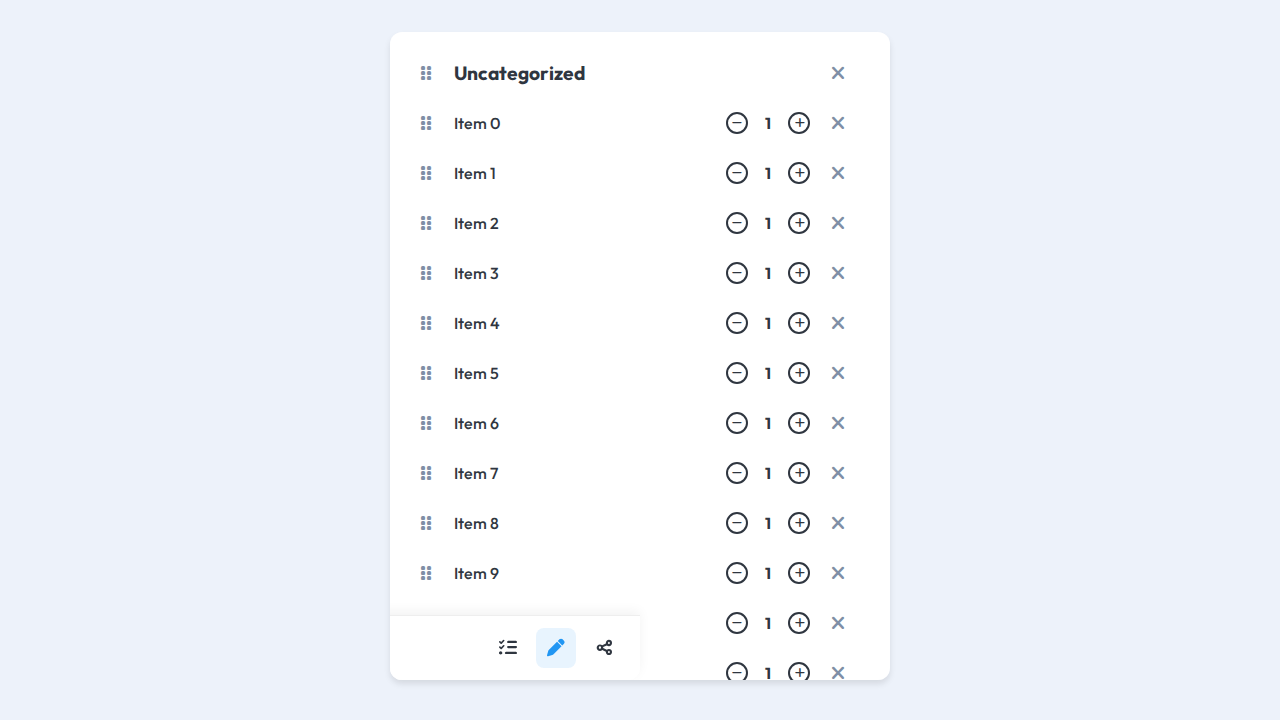
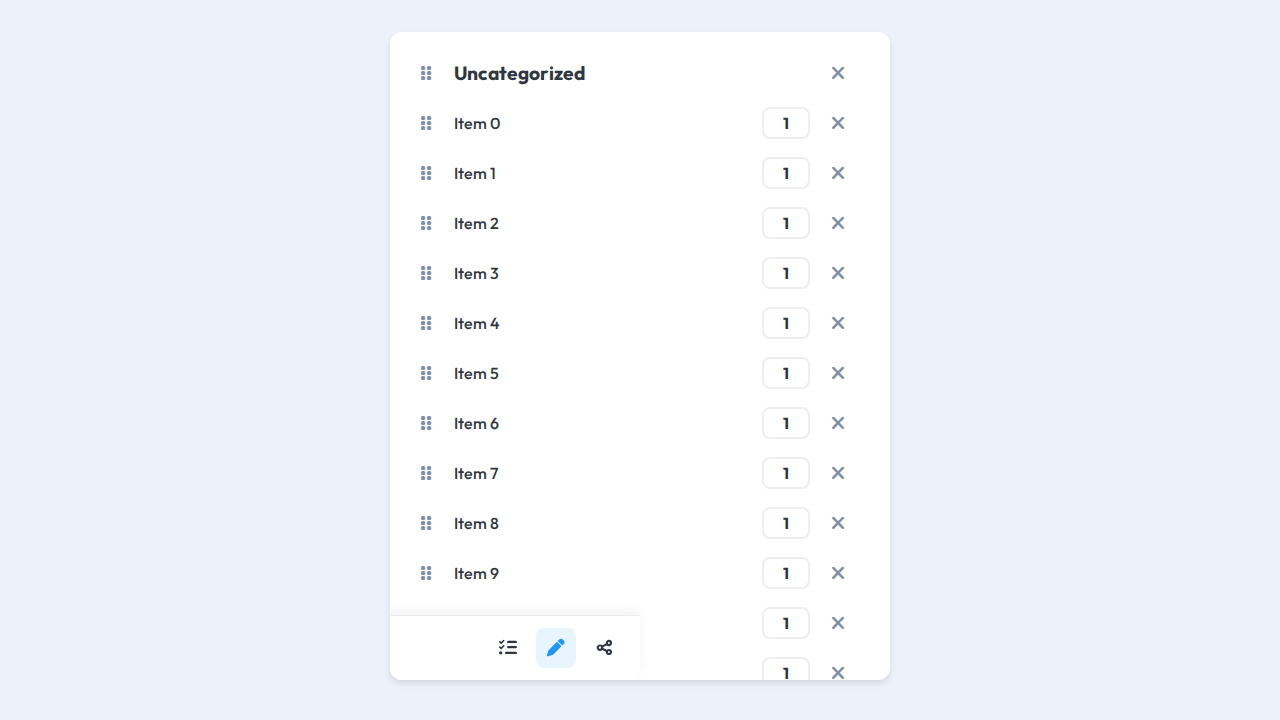
Replace quantity steppers with numeric input fields (#171)
- Replaced plus/minus stepper buttons with `<input type="number">` for direct entry.
- Implemented `input.select()` on focus to highlight previous values.
- Added keyboard navigation: pressing 'Enter' focuses the next visible quantity input.
- Refactored state management to `setHave` and `setWant` for absolute value updates.
- Updated `public/style.css` with dedicated `.qty-input` styling and layout adjustments.
- Updated Playwright test suite to align with the new interaction model.

diff --git a/public/app.js b/public/app.js
@@ -1628,21 +1628,21 @@ document.addEventListener('DOMContentLoaded', async () => {
         renderList();
     }
 
-    function adjustHave(id, delta) {
+    function setHave(id, value) {
         const currentList = getCurrentList();
         const item = currentList.items.find(i => i.id === id);
         if (item) {
-            item.haveCount = Math.max(0, item.haveCount + delta);
+            item.haveCount = Math.max(0, parseInt(value) || 0);
             saveAppState();
-            // Optimization: Update only the relevant stepper if possible
+            // Optimization: Update only the relevant input if possible
             const stepper = document.querySelector(`.grocery-item[data-id="${id}"] .have-stepper`);
             if (stepper) {
-                const valSpan = stepper.querySelector('.qty-val');
-                if (valSpan) {
-                    valSpan.textContent = item.haveCount;
-                    valSpan.classList.remove('pop-animate');
-                    void valSpan.offsetWidth;
-                    valSpan.classList.add('pop-animate');
+                const input = stepper.querySelector('.qty-input');
+                if (input) {
+                    input.value = item.haveCount;
+                    input.classList.remove('pop-animate');
+                    void input.offsetWidth;
+                    input.classList.add('pop-animate');
                     return;
                 }
             }
@@ -1650,11 +1650,11 @@ document.addEventListener('DOMContentLoaded', async () => {
         }
     }
 
-    function adjustWant(id, delta) {
+    function setWant(id, value) {
         const currentList = getCurrentList();
         const item = currentList.items.find(i => i.id === id);
         if (item) {
-            const newWant = Math.max(0, item.wantCount + delta);
+            const newWant = Math.max(0, parseInt(value) || 0);
             const sameNameItems = currentList.items.filter(i => i.text.trim() === item.text.trim());
             sameNameItems.forEach(i => i.wantCount = newWant);
             saveAppState();
@@ -1662,12 +1662,12 @@ document.addEventListener('DOMContentLoaded', async () => {
             sameNameItems.forEach(i => {
                 const stepper = document.querySelector(`.grocery-item[data-id="${i.id}"] .want-stepper`);
                 if (stepper) {
-                    const valSpan = stepper.querySelector('.qty-val');
-                    if (valSpan) {
-                        valSpan.textContent = i.wantCount;
-                        valSpan.classList.remove('pop-animate');
-                        void valSpan.offsetWidth;
-                        valSpan.classList.add('pop-animate');
+                    const input = stepper.querySelector('.qty-input');
+                    if (input) {
+                        input.value = i.wantCount;
+                        input.classList.remove('pop-animate');
+                        void input.offsetWidth;
+                        input.classList.add('pop-animate');
                     }
                 }
                 const circle = document.querySelector(`.grocery-item[data-id="${i.id}"] .shop-qty-circle`);
@@ -2119,36 +2119,44 @@ document.addEventListener('DOMContentLoaded', async () => {
         const group = document.createElement('div');
         group.className = `qty-stepper ${type}-stepper`;
 
-        const btnMinus = document.createElement('button');
-        btnMinus.className = 'qty-stepper-btn minus';
-        btnMinus.innerHTML = '<i class="fas fa-minus"></i>';
+        const input = document.createElement('input');
+        input.type = 'number';
+        input.inputMode = 'numeric';
+        input.min = '0';
+        input.step = '1';
+        input.className = 'qty-input';
+        input.value = type === 'have' ? item.haveCount : item.wantCount;
 
-        const valSpan = document.createElement('span');
-        valSpan.className = 'qty-val';
-        valSpan.textContent = type === 'have' ? item.haveCount : item.wantCount;
+        group.appendChild(input);
 
-        const btnPlus = document.createElement('button');
-        btnPlus.className = 'qty-stepper-btn plus';
-        btnPlus.innerHTML = '<i class="fas fa-plus"></i>';
+        input.addEventListener('click', (e) => e.stopPropagation());
+        input.addEventListener('focus', function() {
+            this.select();
+        });
 
-        group.appendChild(btnMinus);
-        group.appendChild(valSpan);
-        group.appendChild(btnPlus);
-
-        btnMinus.addEventListener('click', (e) => {
-            e.stopPropagation();
+        input.addEventListener('input', () => {
             if (type === 'have') {
-                adjustHave(item.id, -1);
+                setHave(item.id, input.value);
             } else {
-                adjustWant(item.id, -1);
+                setWant(item.id, input.value);
             }
         });
-        btnPlus.addEventListener('click', (e) => {
-            e.stopPropagation();
-            if (type === 'have') {
-                adjustHave(item.id, 1);
-            } else {
-                adjustWant(item.id, 1);
+
+        input.addEventListener('keydown', (e) => {
+            if (e.key === 'Enter') {
+                e.preventDefault();
+                // Find next visible qty-input
+                const allInputs = Array.from(document.querySelectorAll('.qty-input'));
+                const visibleInputs = allInputs.filter(inp => {
+                    const style = window.getComputedStyle(inp.parentElement);
+                    return style.display !== 'none' && style.visibility !== 'hidden' && style.opacity !== '0';
+                });
+                const idx = visibleInputs.indexOf(input);
+                if (idx !== -1 && idx < visibleInputs.length - 1) {
+                    visibleInputs[idx + 1].focus();
+                } else {
+                    input.blur();
+                }
             }
         });
 

diff --git a/tests/shared_want.spec.js b/tests/shared_want.spec.js
@@ -59,12 +59,11 @@ test('Shared wantCount synchronizes across items with same name', async ({ page 
   await page.click('#toolbar-reorder');
 
   const firstBanana = bananaRows.first();
-  const wantStepper = firstBanana.locator('.want-stepper');
-  const plusBtn = wantStepper.locator('.plus');
-  await plusBtn.click();
+  const wantInput = firstBanana.locator('.want-stepper .qty-input');
+  await wantInput.fill('2');
 
-  await expect(bananaRows.first().locator('.want-stepper .qty-val')).toHaveText('2');
-  await expect(bananaRows.last().locator('.want-stepper .qty-val')).toHaveText('2');
+  await expect(bananaRows.first().locator('.want-stepper .qty-input')).toHaveValue('2');
+  await expect(bananaRows.last().locator('.want-stepper .qty-input')).toHaveValue('2');
 
   // We are already in Edit Mode
   const addBtn = page.locator('.add-item-row .add-row-plus').first();
@@ -76,9 +75,9 @@ test('Shared wantCount synchronizes across items with same name', async ({ page 
   const allBananaRows = page.locator('.grocery-item:has-text("Bananas")');
   await expect(allBananaRows).toHaveCount(3);
   // Verify wantCount sync in Edit Mode
-  await expect(allBananaRows.nth(0).locator('.want-stepper .qty-val')).toHaveText('2');
-  await expect(allBananaRows.nth(1).locator('.want-stepper .qty-val')).toHaveText('2');
-  await expect(allBananaRows.nth(2).locator('.want-stepper .qty-val')).toHaveText('2');
+  await expect(allBananaRows.nth(0).locator('.want-stepper .qty-input')).toHaveValue('2');
+  await expect(allBananaRows.nth(1).locator('.want-stepper .qty-input')).toHaveValue('2');
+  await expect(allBananaRows.nth(2).locator('.want-stepper .qty-input')).toHaveValue('2');
 });
 
 test('Shop mode groups items with shared wantCount correctly', async ({ page }) => {
@@ -193,8 +192,8 @@ test('Committing a grouped item in Shop mode distributes haveCount correctly', a
     const bananaItems = page.locator('.grocery-item:has-text("Bananas")');
     await expect(bananaItems).toHaveCount(2);
 
-    const haveTexts = await bananaItems.locator('.have-stepper .qty-val').allTextContents();
-    const totalHave = haveTexts.reduce((sum, val) => sum + parseInt(val), 0);
+    const haveTexts = await bananaItems.locator('.have-stepper .qty-input').evaluateAll(inputs => inputs.map(i => i.value));
+    const totalHave = haveTexts.reduce((sum, val) => sum + (parseInt(val) || 0), 0);
     expect(totalHave).toBe(5);
     expect(haveTexts).toContain('5');
     expect(haveTexts).toContain('0');
@@ -257,6 +256,6 @@ test('Renaming an item to an existing name syncs wantCount', async ({ page }) =>
     await expect(appleRows).toHaveCount(2);
 
     // Verify wantCount sync in Edit Mode
-    const wantTexts = await appleRows.locator('.want-stepper .qty-val').allTextContents();
+    const wantTexts = await appleRows.locator('.want-stepper .qty-input').evaluateAll(inputs => inputs.map(i => i.value));
     expect(wantTexts).toEqual(['10', '10']);
 });

diff --git a/public/style.css b/public/style.css
@@ -447,7 +447,7 @@ h1 {
     display: flex;
     align-items: center;
     justify-content: flex-end;
-    width: 104px;
+    width: 48px;
     /* Fix width to enable transition */
     opacity: 1;
     overflow: visible;
@@ -949,40 +949,35 @@ h1 {
     display: flex;
 }
 
-.qty-stepper-btn {
-    display: flex;
-    align-items: center;
-    justify-content: center;
-    background: transparent;
-    border: 2px solid var(--text-color);
+.qty-input {
+    width: 48px;
+    height: 32px;
+    border: 2px solid var(--border-color);
+    border-radius: 8px;
+    background: var(--input-bg);
     color: var(--text-color);
-    width: 22px;
-    height: 22px;
-    border-radius: 50%;
-    font-size: 0.7rem;
-    cursor: pointer;
-    transition: all 0.2s cubic-bezier(0.175, 0.885, 0.32, 1.275);
-    padding: 0;
+    text-align: center;
+    font-size: 1rem;
+    font-weight: 700;
+    font-family: inherit;
+    outline: none;
+    transition: border-color var(--transition);
+    box-sizing: border-box;
+    -moz-appearance: textfield;
 }
 
-.qty-stepper-btn:active {
-    transform: scale(0.85);
-    background: color-mix(in srgb, var(--primary-color) 15%, transparent);
+.qty-input::-webkit-outer-spin-button,
+.qty-input::-webkit-inner-spin-button {
+    -webkit-appearance: none;
+    margin: 0;
 }
 
-.shop-chip.selected .qty-stepper-btn {
-    color: var(--primary-color);
+.qty-input:focus {
     border-color: var(--primary-color);
 }
 
-.qty-stepper .qty-val {
-    min-width: 1.5rem;
-    text-align: center;
-    font-weight: 700;
-    font-size: 1rem;
-    transition: var(--transition);
-    display: inline-block;
-    /* For transform animation */
+.shop-chip.selected .qty-input {
+    border-color: var(--primary-color);
 }
 
 /* Buy Badge (Shop Mode) */
@@ -1272,7 +1267,7 @@ h1 {
     }
 }
 
-.qty-val.pop-animate {
+.qty-input.pop-animate {
     animation: pop 0.25s cubic-bezier(0.175, 0.885, 0.32, 1.275);
 }
 

diff --git a/tests/shop_stepper.spec.js b/tests/shop_stepper.spec.js
@@ -30,24 +30,22 @@ test('verify shop mode quantity stepper', async ({ page }) => {
     const qtyControls = page.locator('.grocery-item .quantity-controls');
     await expect(qtyControls).toBeVisible();
 
-    // Verify stepper exists
-    const stepper = page.locator('.want-stepper');
-    await expect(stepper).toBeVisible();
+    // Verify input exists
+    const wantInput = page.locator('.want-stepper .qty-input');
+    await expect(wantInput).toBeVisible();
+    await expect(wantInput).toHaveValue('1');
 
-    const valSpan = stepper.locator('.qty-val');
-    await expect(valSpan).toHaveText('1');
-
-    // Click plus button
-    await page.click('.qty-stepper-btn.plus');
-    await expect(valSpan).toHaveText('2');
+    // Change value
+    await wantInput.fill('2');
+    await expect(wantInput).toHaveValue('2');
 
     // Verify shop qty circle also updated
     const circleNum = page.locator('.shop-qty-circle .qty-number');
     await expect(circleNum).toHaveText('2');
 
-    // Click minus button
-    await page.click('.qty-stepper-btn.minus');
-    await expect(valSpan).toHaveText('1');
+    // Change back
+    await wantInput.fill('1');
+    await expect(wantInput).toHaveValue('1');
     await expect(circleNum).toHaveText('1');
 
     // Exit Edit Mode and verify controls are hidden

diff --git a/tests/verify_ui.spec.js b/tests/verify_ui.spec.js
@@ -50,7 +50,7 @@ test('verify edit mode UI consistency', async ({ page }) => {
 
     // In Edit Mode (Home Mode):
     // 1. Delete button should be visible (width 40px)
-    // 2. Quantity controls should be visible (width 104px) - showing Want stepper
+    // 2. Quantity controls should be visible (width 48px) - showing Want input
     // 3. Drag handle should be visible (opacity 1)
 
     const deleteBtn = page.locator('.item-delete-btn');
@@ -73,7 +73,7 @@ test('verify edit mode UI consistency', async ({ page }) => {
 
     const qtyWidth = await qtyControls.evaluate(el => getComputedStyle(el).width);
     console.log(`Qty controls width: ${qtyWidth}`);
-    expect(qtyWidth).toBe('104px');
+    expect(qtyWidth).toBe('48px');
 
     await expect(dragHandle).toBeVisible();
     const handleOpacity = await dragHandle.evaluate(el => getComputedStyle(el).opacity);

diff --git a/tests/stepper_persistence.spec.js b/tests/stepper_persistence.spec.js
@@ -44,12 +44,11 @@ test('Stepper remains expanded after incrementing wanted quantity', async ({ pag
   // This test is updated to verify simple increment in Edit Mode.
   await page.click('#toolbar-reorder');
   const milkRow = page.locator('.grocery-item:has-text("Milk")');
-  const wantStepper = milkRow.locator('.want-stepper');
+  const wantInput = milkRow.locator('.want-stepper .qty-input');
 
-  // 1. Click the plus button to increment
-  const plusBtn = wantStepper.locator('.plus');
-  await plusBtn.click();
+  // 1. Fill input to increment
+  await wantInput.fill('2');
 
   // 2. Verify quantity incremented
-  await expect(wantStepper.locator('.qty-val')).toHaveText('2');
+  await expect(wantInput).toHaveValue('2');
 });

diff --git a/tests/commit-animation.spec.js b/tests/commit-animation.spec.js
@@ -75,6 +75,6 @@ test('Commit animation logic and cancellation', async ({ page }) => {
   await page.click('#toolbar-mode');
   await page.waitForTimeout(500); // Animation
 
-  const haveCount = page.locator('.have-stepper .qty-val');
-  await expect(haveCount).toHaveText('1');
+  const haveCount = page.locator('.have-stepper .qty-input');
+  await expect(haveCount).toHaveValue('1');
 });
